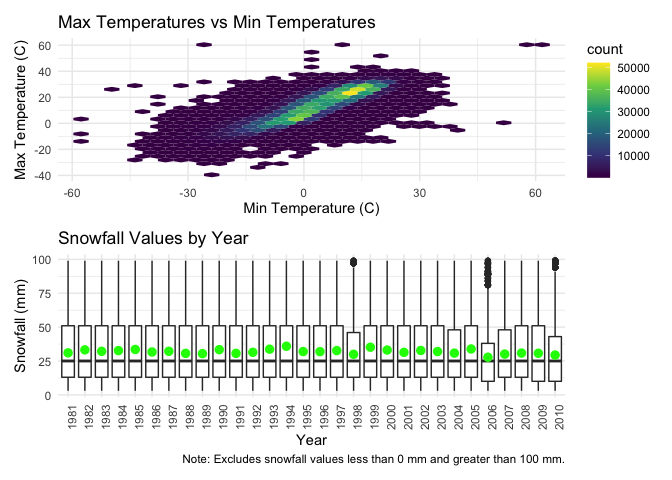
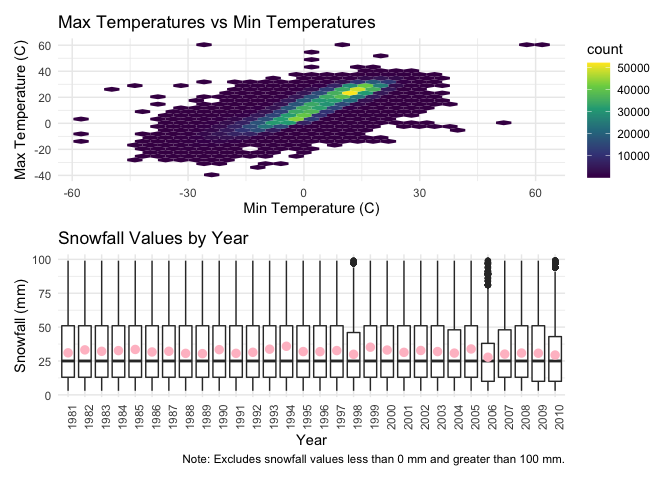
Problem 3 - tweaked color of final plot for extra clarity

Changed region(s): [[0.0938, 0.7188, 0.8438, 0.75]]

diff --git a/p8105_hw3_fde2103.md b/p8105_hw3_fde2103.md
@@ -380,7 +380,7 @@ both of these are likely lower). There also appears to be cluster of
 more frequent values toward the center of the graphic, which indicates
 the temperature ranges that most frequently occur in NY. From the second
 graphic, I was struck by how consistent median snowfall is from year to
-year. The mean snowfall year to year (denoted by the green dots) varies
+year. The mean snowfall year to year (denoted by the pink dots) varies
 somewhat, which makes sense as the mean is more sensitive to extreme
 values.
 
@@ -401,7 +401,7 @@ snowfall =
   filter(snow > 0, snow < 100) %>% 
   ggplot(aes(x = year, y = snow)) +
   geom_boxplot() +
-  stat_summary(fun = "mean", color = "green") +
+  stat_summary(fun = "mean", color = "pink") +
   theme(axis.text.x = element_text(angle = 90)) +
   labs(
     title = "Snowfall Values by Year",
